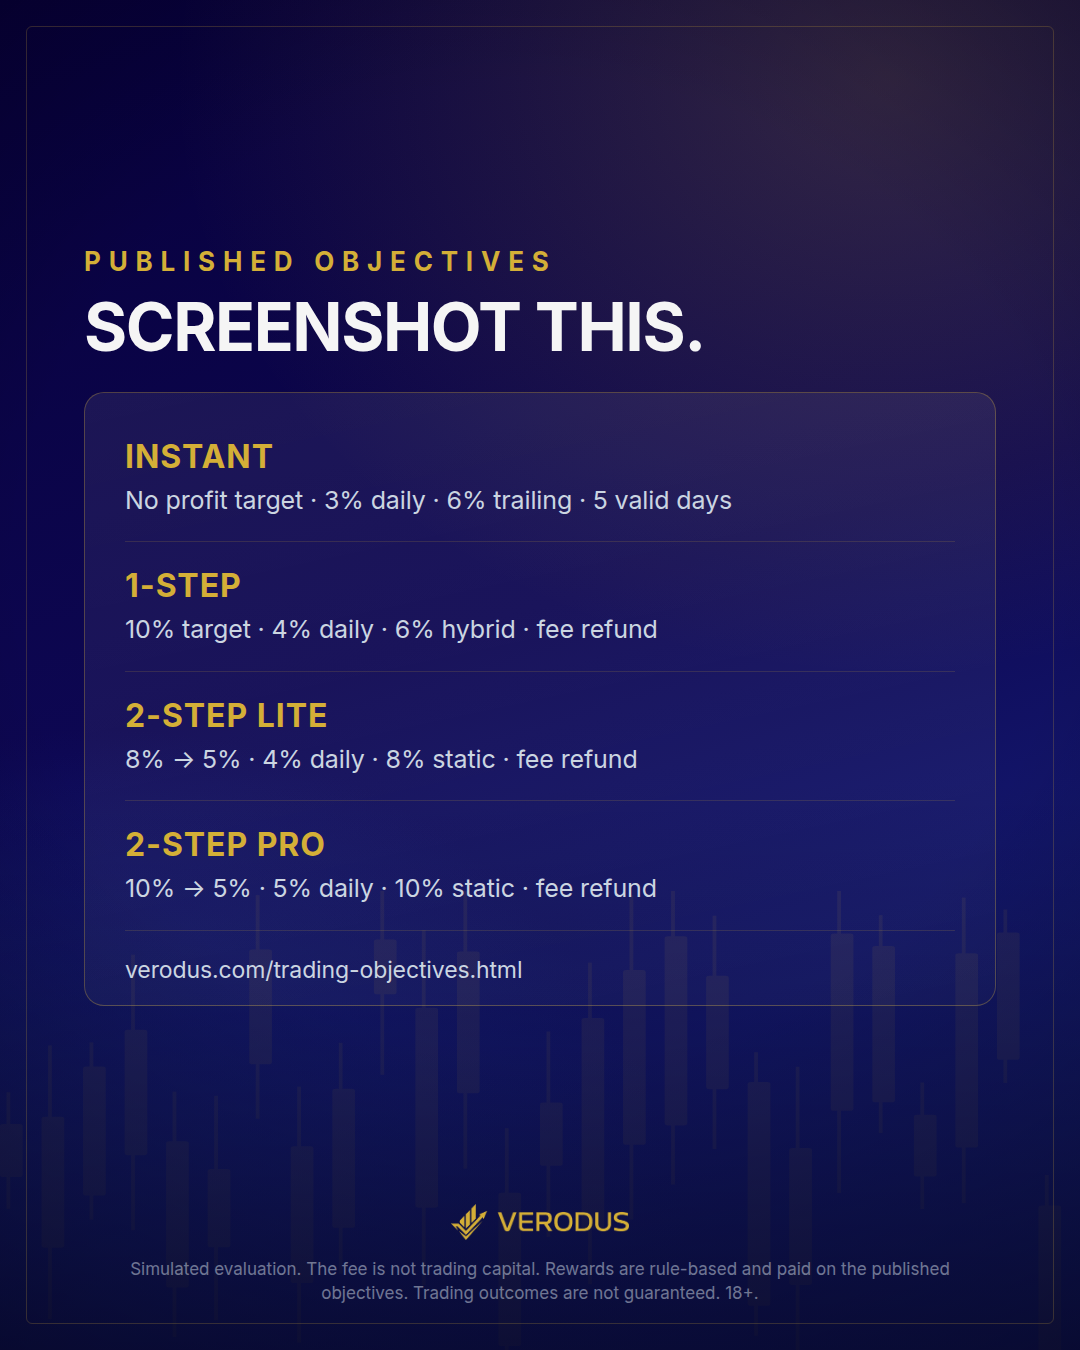
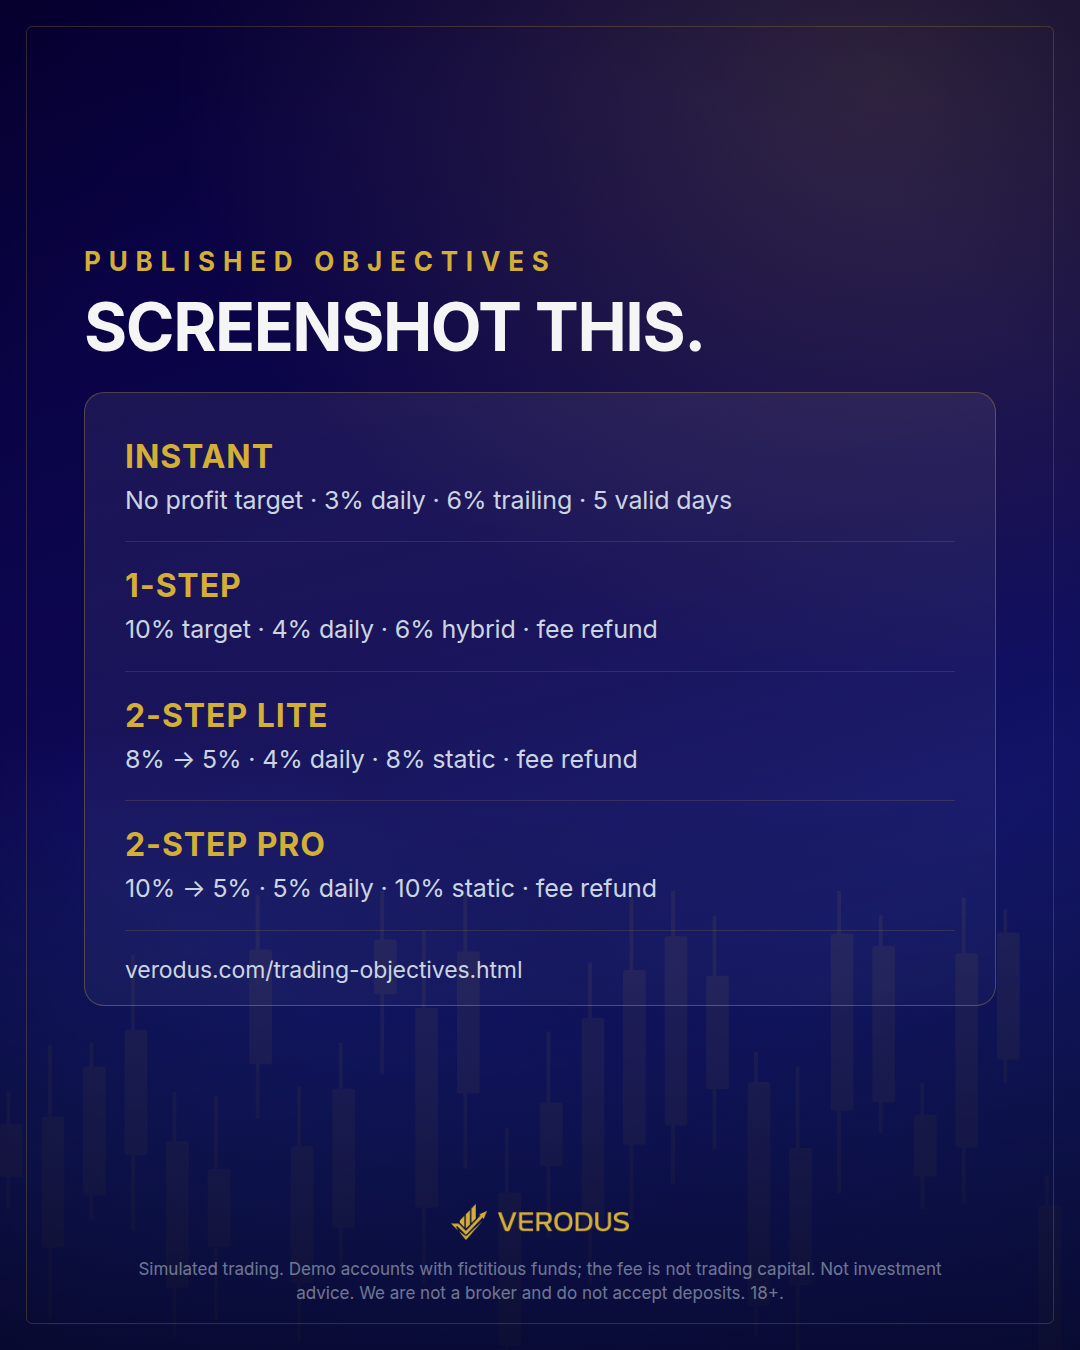
Replace the burn-in disclaimer with a three-layer FTMO-style disclosure.
The old line claimed rewards are paid on the published objectives, which is stronger than the site's own discretionary terms. Now burns in "Simulated trading. Demo account, fictitious funds. Not investment advice. 18+." with a caption block and a counsel-ready full disclosure, plus a legibility spec. All 33 creatives rebuilt.

Changed region(s): [[0.1222, 0.9333, 0.8861, 0.9644]]

diff --git a/ads/meta/build/style.py b/ads/meta/build/style.py
@@ -20,12 +20,12 @@ BODY = "#cbd5e1"
 CHIP_BLUE = "#3b6fe0"
 
 DISCLAIMER = (
-    "Simulated evaluation. The fee is not trading capital. "
-    "Rewards are rule-based and paid on the published objectives. "
-    "Trading outcomes are not guaranteed. 18+."
+    "Simulated trading. Demo accounts with fictitious funds; the fee is not "
+    "trading capital. Not investment advice. We are not a broker and do not "
+    "accept deposits. 18+."
 )
 DISCLAIMER_SHORT = (
-    "Simulated evaluation. Rewards paid on the published objectives. 18+."
+    "Simulated trading. Demo account, fictitious funds. Not investment advice. 18+."
 )
 
 

diff --git a/ads/meta/DISCLAIMERS.md b/ads/meta/DISCLAIMERS.md
@@ -1,0 +1,108 @@
+# Disclaimers — on-screen, caption, and page
+
+Short answer to "can we use FTMO-style on-screen text": **yes, and you should — but not their words, and not as a replacement for the burn-in line.**
+
+FTMO's disclaimer is a **~90-word website disclosure** that appears as an accept-to-continue overlay. It is unreadable burned into a 9:16 Reel. So this is not one line swapped for another; it's three layers doing different jobs.
+
+| Layer | Length | Where |
+|---|---|---|
+| **Burn-in** | 8–12 words | Final frame of every video |
+| **Caption block** | 2 sentences | Any caption mentioning price, rewards, or buying |
+| **Full disclosure** | Paragraph | Bridge page, site footer, checkout — counsel-signed |
+
+---
+
+## What FTMO actually says
+
+Their general disclosure, verbatim:
+
+> All information provided in the material is intended solely for educational purposes related to trading on financial markets. It is not designed to meet your personal situation and does not constitute investment, legal, accounting, or tax advice or serve in any way as a specific investment recommendation, business recommendation, investment opportunity analysis, or similar general recommendation regarding the trading of investment instruments.
+>
+> FTMO only provides services of simulated trading and educational tools for traders. The information on this site is not directed at residents in any country or jurisdiction where such distribution or use would be contrary to local laws or regulations. FTMO companies do not act as a broker and do not accept any deposits.
+>
+> Please note that all accounts we provide to our clients are demo accounts with fictitious funds and any trading is in a simulated environment only.
+
+Their terms go further: *"We are not regulated by the Czech National Bank… you will not receive regulatory protection associated with the financial sector"* and *"the main purpose of our services is to provide you with educational experience… as well as to evaluate your performance."*
+
+Their Australian page adds a jurisdiction line: *"General advice only. Please read the PDS and TMD on our website."*
+
+**Four pillars worth borrowing** — the structure, not the text:
+
+1. Educational purpose / performance evaluation
+2. Demo accounts, fictitious funds, simulated environment
+3. Not investment, legal, accounting, or tax advice
+4. Not a broker, no deposits accepted
+
+---
+
+## Why not copy it verbatim
+
+**It's drafted for a different company in a different jurisdiction.** FTMO is Czech; the disclosure is tuned to EU law and their terms reference the Czech National Bank. Verodus operates as `Verodus L.L.C.-FZ` and `Verodus Capital Inc.` Citing an EU framework you aren't authorised under buys no protection and reads as copy-paste if anyone looks.
+
+**It's a competitor's counsel's work product.** Lifting legal text wholesale is both a legal-risk and a credibility problem for a brand whose entire pitch is "we don't hide things."
+
+**And the real catch:** FTMO's disclaimer works because **their marketing agrees with it.** Their homepage says "Your Demo Trading," "Up to $200K **simulated** capital," "**demo** FTMO Account," "Trade in a **simulated** environment." The disclosure repeats what the product copy already said.
+
+Verodus's homepage says **"Get Funded & Trade — Up to $1M Capital, 90% Profit Split."** Bolt "demo accounts with fictitious funds, educational purposes only" onto that and the disclaimer *contradicts the headline* — which is worse than a short honest line, and is exactly the mismatch Meta and regulators flag. Fix the marketing language first, or the disclaimer works against you.
+
+---
+
+## Also: the current line is not a disclaimer
+
+> ~~Simulated evaluation. Rewards paid on the published objectives. 18+.~~
+
+"Rewards paid on the published objectives" is a **claim**, not a disclaimer — and the site's own terms say rewards are *discretionary, following internal review*. A disclaimer that asserts a stronger promise than the terms is the worst of both worlds. Replaced below.
+
+---
+
+## Use these
+
+### Burn-in — final frame of every video
+
+**Recommended:**
+
+> Simulated trading. Demo account, fictitious funds. Not investment advice. 18+.
+
+Alternates, same compliance value, pick for rhythm:
+
+- `Simulated trading only. Not investment advice. 18+.` (shortest — use on 15s cuts)
+- `Demo accounts, fictitious funds. Simulated environment. Not investment advice. 18+.`
+- `Skill evaluation in a simulated environment. Not investment advice. Not a broker. 18+.`
+
+**Legibility spec.** Meta and regulators both treat unreadable disclosure as no disclosure:
+
+- Minimum **28px** at 1080×1920, white or `#f5f5f5` on the dark frame
+- Hold on screen at least **3 seconds** — not a one-frame flash
+- Keep clear of the bottom 250px (UI overlay) and never behind a caption block
+- Never in gold on the blue gradient — contrast fails at thumbnail scale
+
+### Caption block — any caption that mentions price, rewards, or buying
+
+> Verodus provides simulated trading and performance evaluation. Accounts are demo accounts with fictitious funds; all trading is in a simulated environment. Nothing here is investment, legal, or tax advice. We are not a broker and do not accept deposits. 18+.
+
+### Full disclosure — bridge page, footer, checkout
+
+Draft. **Send to counsel before publishing** — I can structure it, not sign off on it.
+
+> Verodus provides services of simulated trading and performance evaluation for traders. All accounts we provide are demo accounts with fictitious funds, and all trading takes place in a simulated environment. Fees are paid for access to the Verodus platform, evaluation systems, and data services — they are not deposits of trading capital, and they are not investments.
+>
+> Nothing on this site is designed to meet your personal situation and nothing here constitutes investment, legal, accounting, or tax advice, an investment recommendation, or an analysis of an investment opportunity. Verodus does not act as a broker and does not accept deposits.
+>
+> Performance rewards are based on measured results in a simulated environment against published objectives and are subject to our Terms. Past simulated performance does not indicate future results. This information is not directed at residents of any jurisdiction where its distribution or use would be contrary to local law.
+
+Two things counsel must decide: whether to add FTMO's "you will not receive regulatory protection associated with the financial sector" line, and whether any target market needs its own variant the way FTMO does for Australia.
+
+---
+
+## Marketing copy this obliges you to change
+
+A disclaimer only holds if the product copy matches it. To use the language above, these need to move:
+
+| Now | To |
+|---|---|
+| "Get Funded & Trade — Up to $1M Capital" | "Up to $1M **simulated** capital" |
+| "90% Profit Split" as the headline | "Up to 90% reward split, on demand" |
+| "funded account" | "simulated funded account" or "demo account" |
+| Reward calculator with a projected dollar figure | Label as illustrative, or remove from the ad destination |
+
+The pack already says "simulated" throughout — this is about the site catching up to it.

diff --git a/ads/meta/COPY.md b/ads/meta/COPY.md
@@ -8,7 +8,7 @@ Every ad ends with the same legal line. Do not delete it. Do not say “just lau
 
 **No crypto in paid copy.** Crypto payout rails are true but promoting them can pull the ad into Meta's cryptocurrency policy, which needs separate written permission. Say “Rise — bank transfer or local methods.” Crypto is fine on the site and in Discord.
 
-> Simulated evaluation. The fee is not trading capital. Rewards are rule-based and paid on the published objectives. Trading outcomes are not guaranteed. 18+.
+> Simulated trading. Demo accounts with fictitious funds; the fee is not trading capital. Not investment advice. We are not a broker and do not accept deposits. 18+.
 
 URL: `https://www.verodus.com/?utm_source=meta&utm_medium=paid&utm_campaign=launch4w&utm_content=ADNAME`
 
@@ -28,7 +28,7 @@ Instant $5k. No profit target. Simulated capital from day one.
 
 $72 with code VERO35. 3% daily · 6% trail · 5 valid days.
 
-Simulated evaluation. The fee is not trading capital. Rewards are rule-based and paid on the published objectives. Trading outcomes are not guaranteed. 18+.
+Simulated trading. Demo accounts with fictitious funds; the fee is not trading capital. Not investment advice. We are not a broker and do not accept deposits. 18+.
 
 **I-P2 — rules, not hype**
 
@@ -36,7 +36,7 @@ Most Instant accounts die on daily drawdown in week one. Ours is published befor
 
 Instant $5,000 — $72 with VERO35. No profit target.
 
-Simulated evaluation. Rewards paid on the published objectives. 18+.
+Simulated trading. Demo account, fictitious funds. Not investment advice. 18+.
 
 **I-P3 — vs the cheap Instant**
 
@@ -44,7 +44,7 @@ A cheaper Instant is not a better Instant. $5,000 Instant at Verodus is $72 with
 
 No profit target. Day-one simulated capital. Rules on the page before checkout.
 
-Simulated evaluation. Rewards paid on the published objectives. 18+.
+Simulated trading. Demo account, fictitious funds. Not investment advice. 18+.
 
 **I-P4 — short (Stories overlay + Reels)**
 
@@ -61,7 +61,7 @@ Simulated. Not guaranteed. 18+.
 3. Hit 5 valid days. Stay inside 3% daily / 6% trail.
 4. Request a reward — most process in under 24h via Rise (bank transfer or local methods).
 
-No profit target. Simulated evaluation. Rewards paid on the published objectives. 18+.
+No profit target. Simulated trading. Demo account, fictitious funds. Not investment advice. 18+.
 
 ### Headlines
 
@@ -106,7 +106,7 @@ One phase. $5,000. $36 with VERO35.
 
 10% target. 4% daily. 6% hybrid max DD. Fee refunded on your first reward.
 
-Simulated evaluation. Rewards paid on the published objectives. 18+.
+Simulated trading. Demo account, fictitious funds. Not investment advice. 18+.
 
 **O-P2 — refund**
 
@@ -122,7 +122,7 @@ Skip phase two. 1-Step $5k: 10% target, 4% daily, 6% hybrid, 50% best-day on the
 
 $36 with VERO35. 100% fee refund on first successful payout.
 
-Simulated. Rewards paid on the published objectives. 18+.
+Simulated trading. Demo account, fictitious funds. Not investment advice. 18+.
 
 **O-P4 — short**
 
@@ -136,7 +136,7 @@ Published before you start: 10% · 4% SOD daily · 6% hybrid · no time limit.
 
 1-Step $5,000 — $36 with VERO35. TradeHub or Platform 5.
 
-Simulated evaluation. Rewards paid on the published objectives. 18+.
+Simulated trading. Demo account, fictitious funds. Not investment advice. 18+.
 
 ### Headlines
 
@@ -215,7 +215,7 @@ You already opened Verodus. The street price is VERO35 — 35% off every plan.
 
 Instant $5k is $72. 1-Step $5k is $36. Fee refunded on first 1-Step reward.
 
-Simulated evaluation. Rewards paid on the published objectives. 18+.
+Simulated trading. Demo account, fictitious funds. Not investment advice. 18+.
 
 **R-P2**
 
@@ -290,7 +290,7 @@ VERO35 is the founders-intro price. Instant $5k is $72. 1-Step $5k is $36, fee b
 
 Try the platform free first. 80% split; 90% on demand. Instant has no fee refund — that is why it is $72, not $40.
 
-We’ve been running since May. Simulated evaluation. Rewards paid on the published objectives. 18+.
+We’ve been running since May. Simulated trading. Demo account, fictitious funds. Not investment advice. 18+.
 
 **S-P1 — static vs trailing (week 2, 2-Step)**
 

diff --git a/ads/meta/PUBLISH.md b/ads/meta/PUBLISH.md
@@ -111,7 +111,7 @@ Organic captions. Paid primary text stays in `COPY.md`. First line is the whole 
 
 Legal line on every caption that mentions buying, price, or rewards:
 
-> Simulated evaluation. Rewards paid on the published objectives. 18+.
+> Simulated trading. Demo account, fictitious funds. Not investment advice. 18+.
 
 ### 1 · Founders intro
 > Rules you only understand after you fail — that's the industry default.
@@ -120,7 +120,7 @@ Legal line on every caption that mentions buying, price, or rewards:
 >
 > Free trial's on the site. Founders are in Discord daily — come argue with us.
 >
-> Simulated evaluation. Rewards paid on the published objectives. 18+.
+> Simulated trading. Demo account, fictitious funds. Not investment advice. 18+.
 
 Set C.
 
@@ -129,7 +129,7 @@ Set C.
 >
 > Every Verodus objective is public before you put money down. No retroactive edits.
 >
-> Simulated evaluation. Rewards paid on the published objectives. 18+.
+> Simulated trading. Demo account, fictitious funds. Not investment advice. 18+.
 
 Set C.
 
@@ -147,7 +147,7 @@ Set C.
 >
 > Instant is a different product. That one trails, and the card says so.
 >
-> Simulated evaluation. Rewards paid on the published objectives. 18+.
+> Simulated trading. Demo account, fictitious funds. Not investment advice. 18+.
 
 Set A.
 
@@ -165,7 +165,7 @@ Set A.
 >
 > Short answer on the last one: don't, yet. The rules are public and we're in Discord daily. Judge the operation.
 >
-> Simulated evaluation. Rewards paid on the published objectives. 18+.
+> Simulated trading. Demo account, fictitious funds. Not investment advice. 18+.
 
 Set C.
 
@@ -185,7 +185,7 @@ Set B.
 >
 > Start free. If the rules fit, the code's in bio. If they don't, don't buy.
 >
-> Simulated evaluation. Rewards paid on the published objectives. 18+.
+> Simulated trading. Demo account, fictitious funds. Not investment advice. 18+.
 
 Set B.
 
@@ -201,7 +201,7 @@ Set C.
 ### 10 · Last call
 > Intro series wraps this week. Code in bio, rules on the site, trial still free.
 >
-> Simulated evaluation. Rewards paid on the published objectives. 18+.
+> Simulated trading. Demo account, fictitious funds. Not investment advice. 18+.
 
 Set B. Only post if the pricing genuinely ends.
 
@@ -212,7 +212,7 @@ Set B. Only post if the pricing genuinely ends.
 >
 > Full card's on the objectives page. If that's not your temperament, take an evaluation instead.
 >
-> Simulated evaluation. Rewards paid on the published objectives. 18+.
+> Simulated trading. Demo account, fictitious funds. Not investment advice. 18+.
 
 Set B.
 
@@ -221,7 +221,7 @@ Set B.
 >
 > No time limit, so you pass on your schedule, not a thirty-day clock. Fee back on your first reward.
 >
-> Simulated evaluation. Rewards paid on the published objectives. 18+.
+> Simulated trading. Demo account, fictitious funds. Not investment advice. 18+.
 
 Set B.
 
@@ -232,7 +232,7 @@ Set B.
 >
 > Lite and Pro side by side on the objectives page.
 >
-> Simulated evaluation. Rewards paid on the published objectives. 18+.
+> Simulated trading. Demo account, fictitious funds. Not investment advice. 18+.
 
 Set A.
 
@@ -243,7 +243,7 @@ Set A.
 >
 > Trial first — link in bio.
 >
-> Simulated evaluation. Rewards paid on the published objectives. 18+.
+> Simulated trading. Demo account, fictitious funds. Not investment advice. 18+.
 
 Set A.
 

diff --git a/ads/meta/ORGANIC.md b/ads/meta/ORGANIC.md
@@ -4,7 +4,7 @@ Aligns with [`LAUNCH-PLAN.md`](LAUNCH-PLAN.md). Founder scripts live there. This
 
 Cadence: **1 feed/day**, **1 Reel every other day**, **3–5 Stories/day**, founder in **Discord daily**.
 
-Legal one-liner on every buy post: `Simulated evaluation. Rewards paid on the published objectives. 18+.`
+Legal one-liner on every buy post: `Simulated trading. Demo account, fictitious funds. Not investment advice. 18+.`
 
 Do not sell Instant $25k+. Do not say Instant has a fee refund or static max DD. Do not promise 90% as the default split.
 
@@ -85,7 +85,7 @@ Trade the platform free. Same rules. Same TradeHub / Platform 5. $0.
 
 Then Instant $5k at $72 or 1-Step at $36 with VERO35.
 
-No second coupon. Simulated evaluation. Rewards paid on the published objectives. 18+.
+No second coupon. Simulated trading. Demo account, fictitious funds. Not investment advice. 18+.
 
 ### Week 1 — founders intro caption
 
@@ -135,7 +135,7 @@ Try free first. 80% split; 90% on demand.
 
 If we raise stickers after [date], these are the founding numbers. If we don’t raise, VERO35 stays and there is still no second code.
 
-Simulated evaluation. Rewards paid on the published objectives. 18+.
+Simulated trading. Demo account, fictitious funds. Not investment advice. 18+.
 
 ---
 

diff --git a/ads/meta/REELS.md b/ads/meta/REELS.md
@@ -22,7 +22,7 @@ Seventeen shootable reels: **11 × 20s** (8 hooks + 3 product explainers) and **
 - Cycles: **bi-weekly 80% is the base cycle.** Weekly and on demand are both add-ons — weekly 70%, on demand 90%. Never "you pick the cycle," never imply on demand is free.
 - "Since May" is team background, not a slogan. It belongs only on the objectives screen-record (20-F) or in an AMA answer if asked. Never a hook, caption lead, or end card.
 - Payout speed is allowed: **"most rewards process in under 24 hours."** Keep "most" — it is a processing claim, not a guarantee. Never imply you get paid within 24 hours of buying; the first reward also needs $100 and 3 trading days.
-- Burn in: *Simulated evaluation. Rewards paid on the published objectives. 18+.*
+- Burn in: *Simulated trading. Demo account, fictitious funds. Not investment advice. 18+.*
 - Logo bug `w1-logo-bug.png` top-left. Captions always on — most views are muted.
 
 Shoot vertical 1080×1920, H.264, 30fps. Phone on a tripod, window light, real desk.

diff --git a/ads/meta/VIDEO-SCRIPTS.md b/ads/meta/VIDEO-SCRIPTS.md
@@ -20,7 +20,7 @@ Consistency line: **intro code / founders series · reward · evaluations refund
 
 Legal line on every final frame:
 
-> Simulated evaluation. Rewards paid on the published objectives. 18+.
+> Simulated trading. Demo account, fictitious funds. Not investment advice. 18+.
 
 End card: `w1-manifesto-end.png` then *Free trial — verodus.com*. Logo bug `w1-logo-bug.png` top-left.
 
@@ -62,7 +62,7 @@ Open on the face. No logo sting first.
 Rules published before you pay. No time limit. Founders in Discord daily.  
 Start free — link in bio.
 
-Simulated evaluation. Rewards paid on the published objectives. 18+.
+Simulated trading. Demo account, fictitious funds. Not investment advice. 18+.
 
 ---
 

diff --git a/ads/README.md b/ads/README.md
@@ -5,6 +5,7 @@
 | File | What |
 |---|---|
 | [meta/PUBLISH.md](meta/PUBLISH.md) | **Start here to ship:** ads vs organic per script, hook A/B, captions, hashtags, covers, CTA buttons, compliance checklist |
+| [meta/DISCLAIMERS.md](meta/DISCLAIMERS.md) | Burn-in, caption, and full-page disclosure + legibility spec |
 | [meta/REELS.md](meta/REELS.md) | **11 × 20s + 6 × 45s reels**, timed to runtime |
 | [meta/VIDEO-SCRIPTS.md](meta/VIDEO-SCRIPTS.md) | Long-form masters (AMA, walkthrough) |
 | [meta/LAUNCH-PLAN.md](meta/LAUNCH-PLAN.md) | Master 4-week plan, budget |

diff --git a/ads/meta/LAUNCH-PLAN.md b/ads/meta/LAUNCH-PLAN.md
@@ -146,7 +146,7 @@ Video carries **no prices**. Rules, free trial, Discord, "since May." Fees live 
 
 > Trade the platform free. No card required for the trial.  
 > Then Instant $5k at $72 or 1-Step at $36 with VERO35.  
-> Simulated evaluation. Rewards paid on the published objectives. 18+.
+> Simulated trading. Demo account, fictitious funds. Not investment advice. 18+.
 
 ### Week 2 — Rules · Transparency
 
